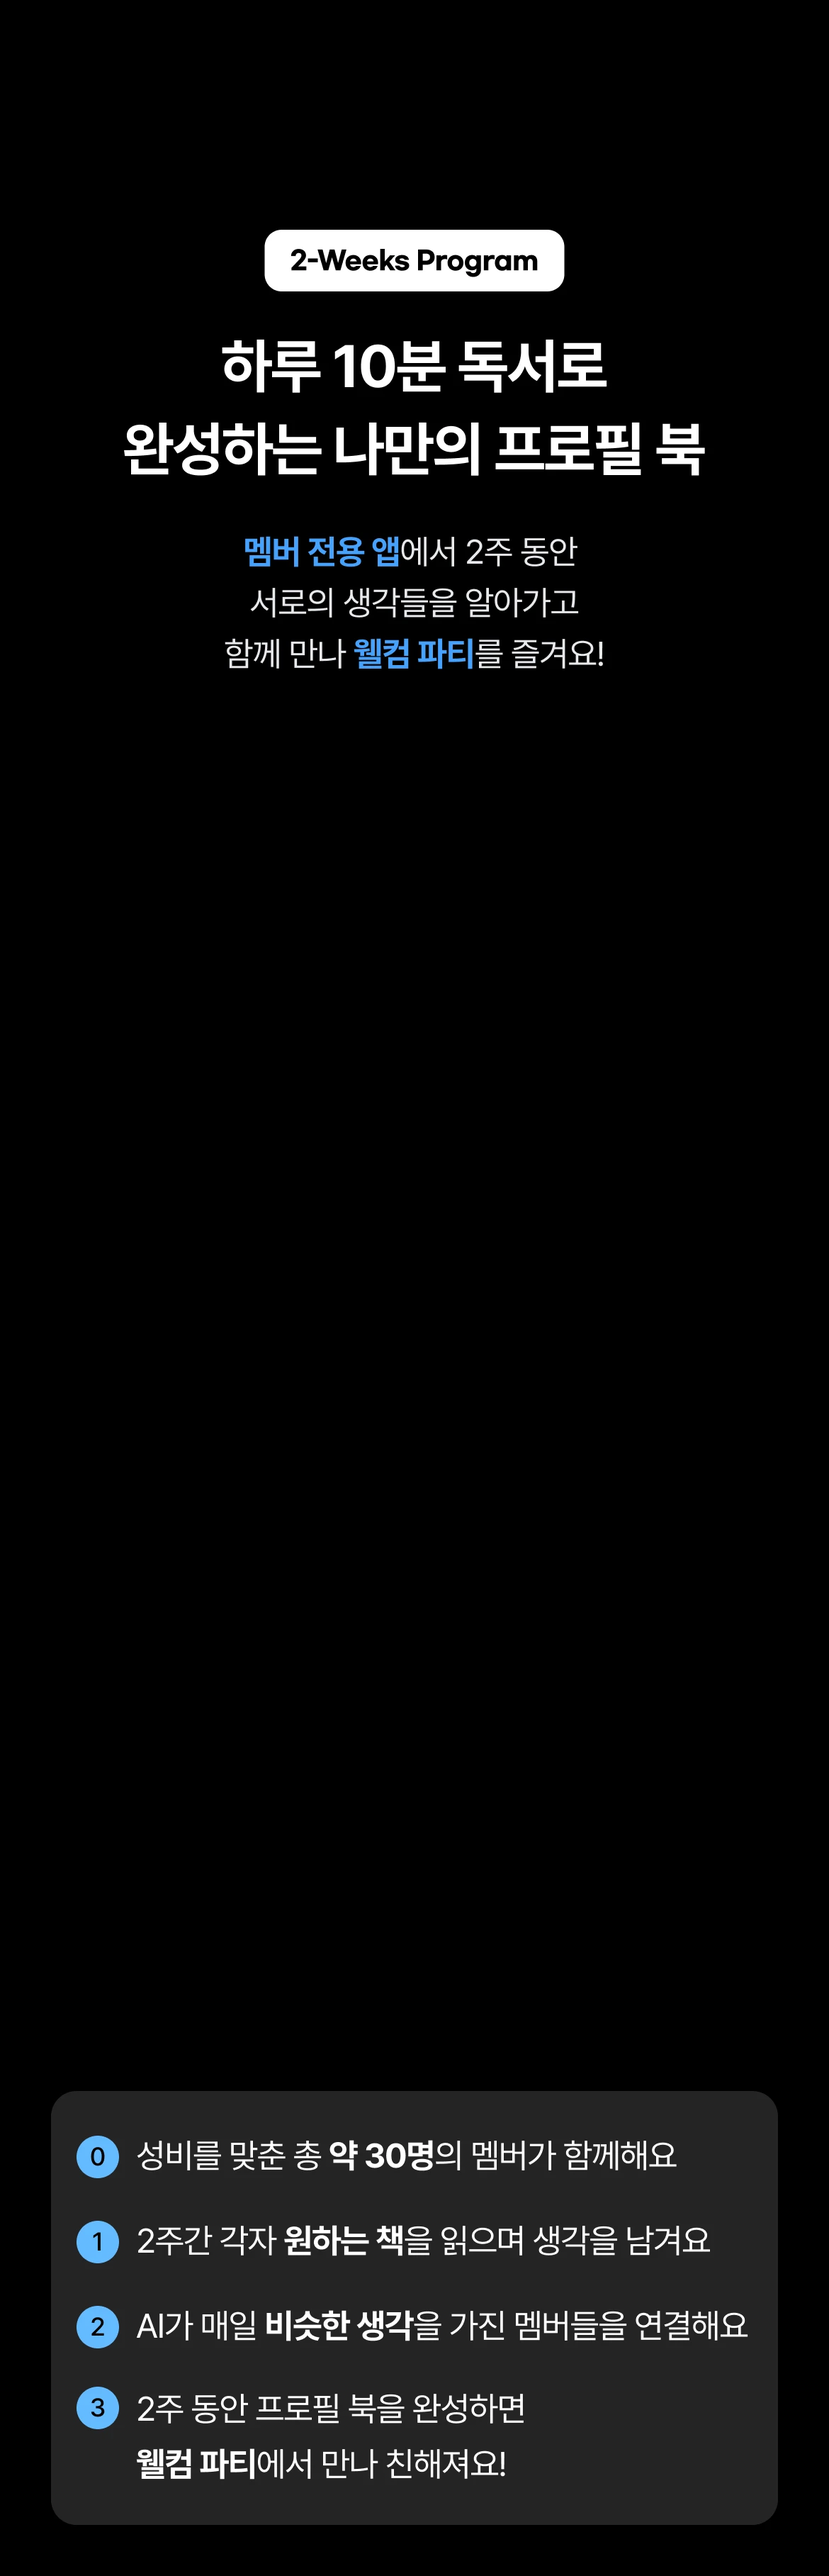
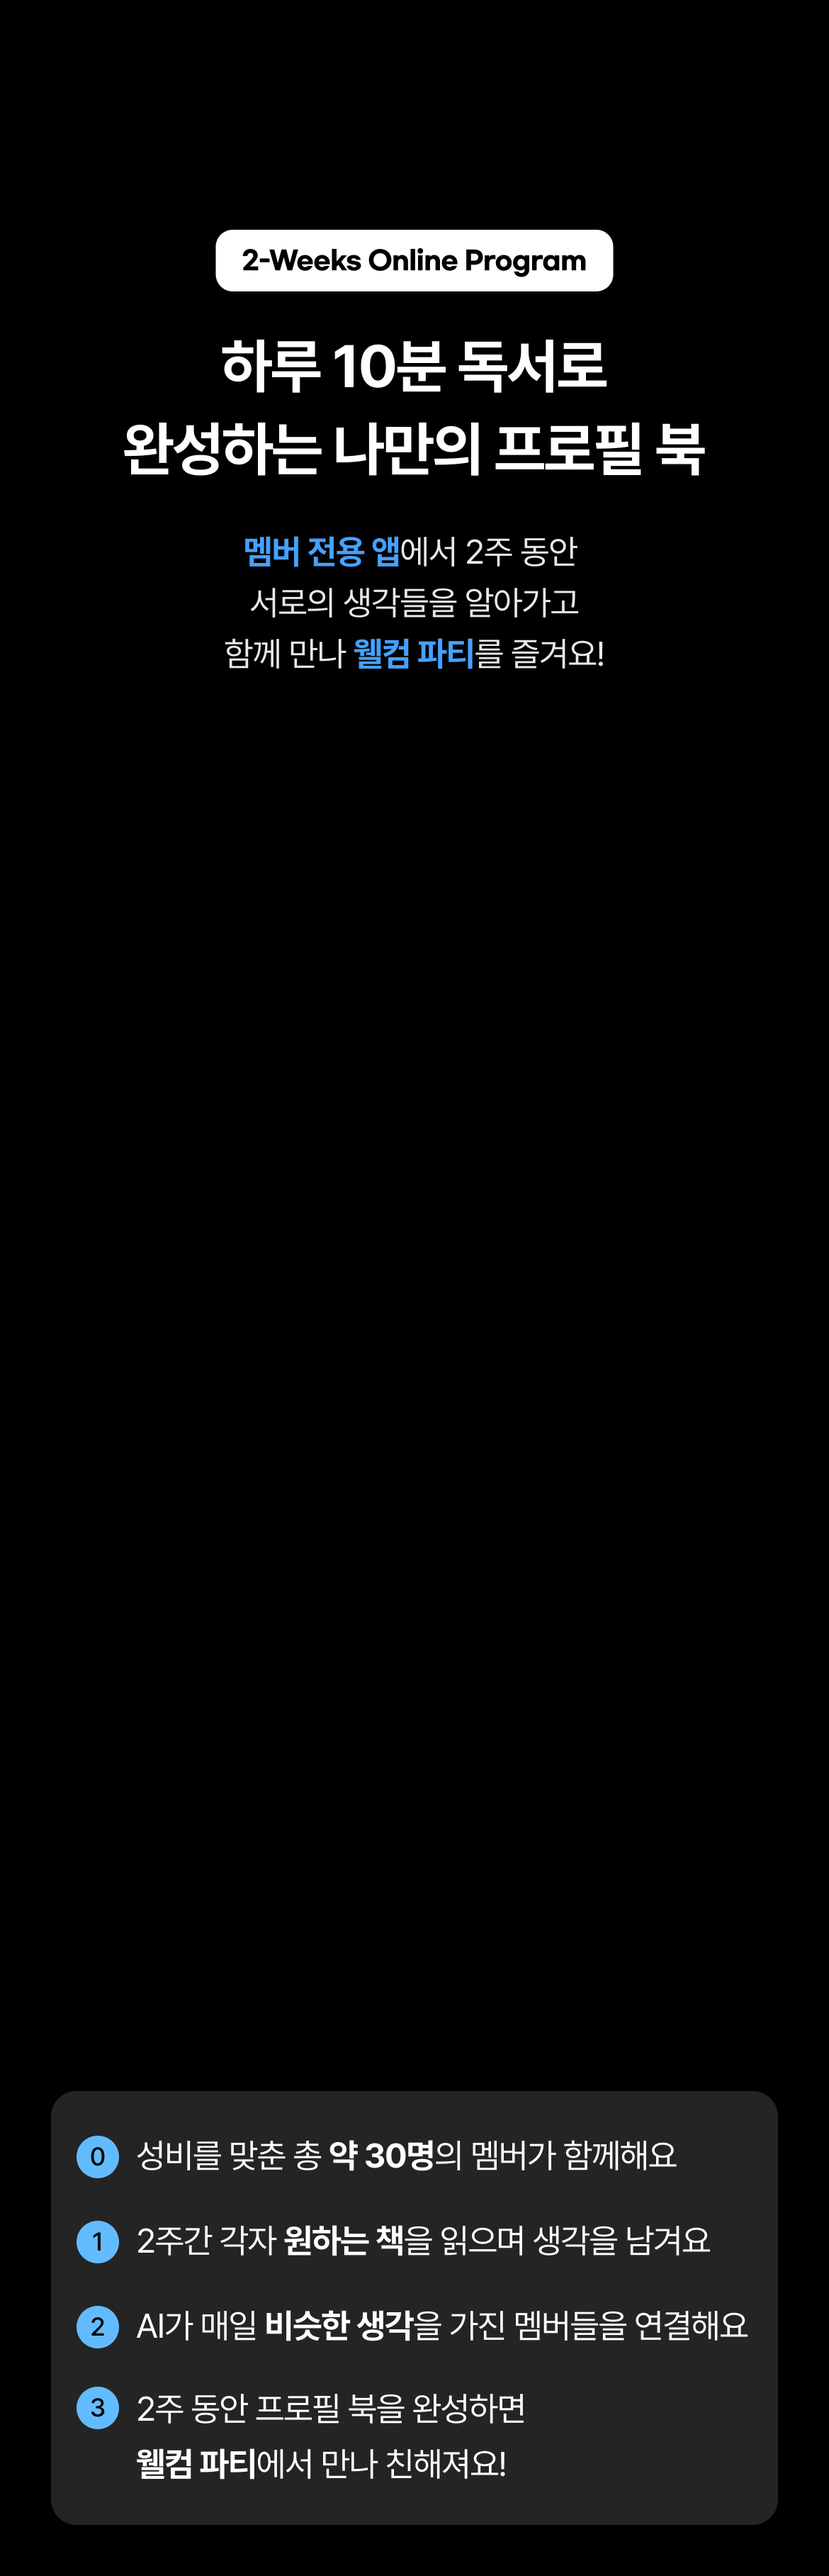
Update landing images and submenu text

Changed region(s): [[0.2462, 0.0622, 0.5846, 0.1244], [0.6154, 0.0622, 0.7385, 0.1244], [0.4308, 0.2488, 0.4615, 0.2799]]

diff --git a/src/app/programs/reading/page.tsx b/src/app/programs/reading/page.tsx
@@ -55,7 +55,7 @@ export default function ReadingProgramPage() {
                 {/* 첫 번째 이미지 + 동영상 오버레이 */}
                 <div className="image-with-video-overlay">
                     <Image
-                        src={getImageUrl('/image/landing/PnS_Program_reading_1.webp?v=1765966010156')}
+                        src={getImageUrl('/image/landing/PnS_Program_reading_1.webp?v=1766590000001')}
                         alt="2주 독서 프로그램 소개 1 - 하루 10분 독서로 완성하는 나만의 프로필 북"
                         width={1170}
                         height={2000} // Approximate, will auto-adjust height with layout but good to have high val
@@ -72,12 +72,12 @@ export default function ReadingProgramPage() {
                             muted
                             loop
                             playsInline
-                            poster={getImageUrl('/image/landing/PnS_Program_reading_1.webp?v=1765966010156')}
+                            poster={getImageUrl('/image/landing/PnS_Program_reading_1.webp?v=1766590000001')}
                         />
                     </div>
                 </div>
                 <Image
-                    src={getImageUrl('/image/landing/PnS_Program_reading_2.webp?v=1765966010156')}
+                    src={getImageUrl('/image/landing/PnS_Program_reading_2.webp?v=1766590000001')}
                     alt="2주 독서 프로그램 소개 2 - AI 매칭 및 웰컴 파티"
                     width={1170}
                     height={2000}

diff --git a/src/app/page.tsx b/src/app/page.tsx
@@ -52,10 +52,10 @@ export default function HomePage() {
         <HeroImageSlider />
 
         <Image
-          src={getImageUrl('/image/landing/PnS_2.webp?v=1765966010155')}
+          src={getImageUrl('/image/landing/PnS_2.webp?v=1766590000001')}
           alt="필립앤소피 소개"
           width={1170}
-          height={5526}
+          height={8721} // Updated height based on new image
           className="main-image"
         />
 

diff --git a/src/components/landing/GlassNavigation.tsx b/src/components/landing/GlassNavigation.tsx
@@ -16,7 +16,7 @@ export default function GlassNavigation() {
       label: '프로그램',
       href: '/programs/reading',
       subItems: [
-        { label: '2주 독서', href: '/programs/reading' },
+        { label: '2주 온라인 독서', href: '/programs/reading' },
         { label: '멤버십', href: '/programs/membership' },
       ],
     },
